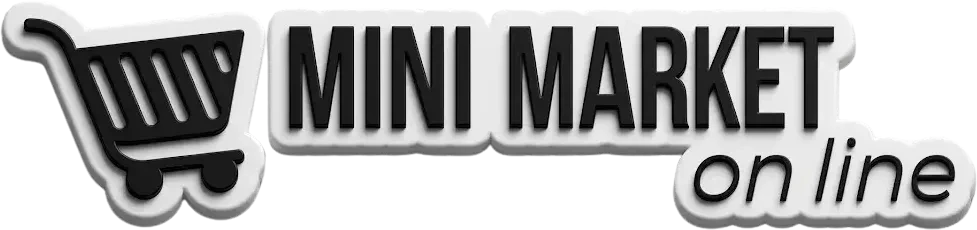
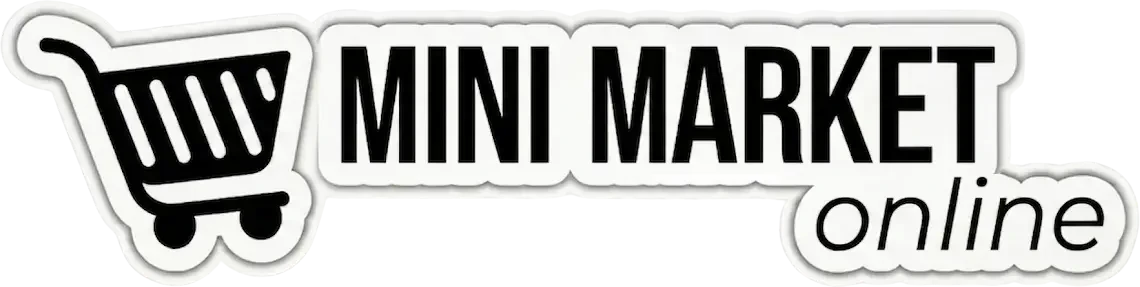
feat(navbar): actualiza imagen del título, ajusta altura de combo.avif
- tienda_online_titulo.webp: nueva imagen recortada de márgenes (1166x348 -> 1140x287)
- SeccionCombos: altura de /combo.avif reducida de 120px a 100px

diff --git a/src/tienda/components/SeccionCombos.jsx b/src/tienda/components/SeccionCombos.jsx
@@ -107,7 +107,7 @@ export default function SeccionCombos({ combos = [] }) {
     <section className="mb-8">
       {/* Cabecera — imagen redondeada integrada en el grid */}
       <div className="w-full mb-4 overflow-hidden rounded-2xl shadow-sm border border-gray-100">
-        <img src="/combo.avif" alt="Combos" className="w-full object-cover" style={{ maxHeight: 120 }} />
+        <img src="/combo.avif" alt="Combos" className="w-full object-cover" style={{ maxHeight: 100 }} />
       </div>
 
       <div
